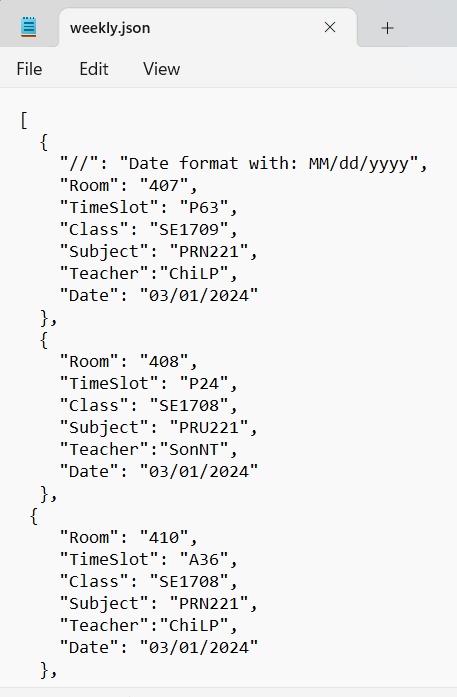
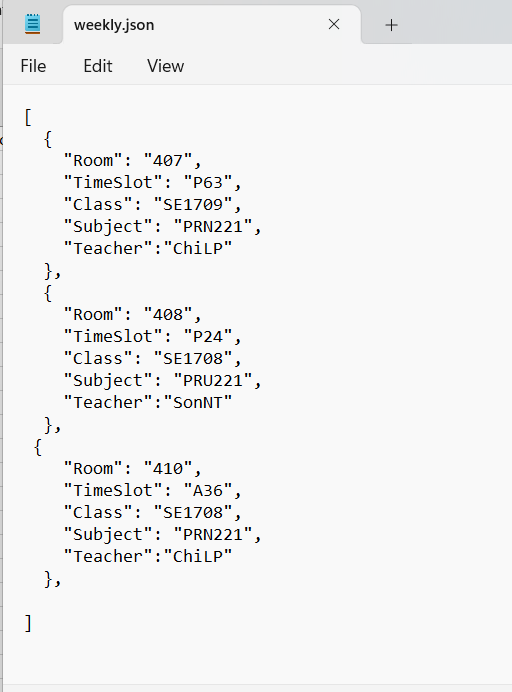
update pagin

diff --git a/Pages/Schedules/ImportFile.cshtml.cs b/Pages/Schedules/ImportFile.cshtml.cs
@@ -8,6 +8,7 @@ using System.IO;
 using OfficeOpenXml;
 using PRN211_Project.Models;
 using Microsoft.EntityFrameworkCore;
+using System.Net.Http;
 
 
 namespace PRN211_Project.Pages.Schedules
@@ -17,11 +18,13 @@ namespace PRN211_Project.Pages.Schedules
         private readonly IWebHostEnvironment _environment;
         private ReadDataFormFile _readDataFormFile = new ReadDataFormFile();
         private Prn211ProjectContext _context;
-
-        public ScheduleModel(IWebHostEnvironment environment, Prn211ProjectContext context)
+        private IHttpContextAccessor _httpContext;
+        private GetSession session = new GetSession();
+        public ScheduleModel(IWebHostEnvironment environment, Prn211ProjectContext context, IHttpContextAccessor httpContext)
         {
             _environment = environment;
             _context = context;
+            _httpContext = httpContext;
         }
 
         [BindProperty(SupportsGet = true)]
@@ -34,16 +37,22 @@ namespace PRN211_Project.Pages.Schedules
 
         public Dictionary<ScheduleData, int> Data { get; set; } = null;
 
-        public async void OnGet()
+        public async Task<IActionResult> OnGet()
         {
-            if (FileUploads != null && FileUploads.Length != 0)
-            {
+            //if (_httpContext.HttpContext!.Session.GetString("Account") != null)
+            //{
+            //    var account = session.GetObject(_httpContext.HttpContext!.Session, "Account");
+            //    if (!account.Role.ToLower().Equals("admin"))
+            //    {
+            //        return Redirect("/Index");
+            //    }
+            //    else
+            //    {
+            return Page();
+            //    }
+            //}
+            //return Redirect("/Index");
 
-            }
-            else
-            {
-                Data = new Dictionary<ScheduleData, int>();
-            }
         }
 
         public async Task<IActionResult> OnPostViewDataAsync(IFormFile FileUploads)
@@ -72,7 +81,7 @@ namespace PRN211_Project.Pages.Schedules
                 }
                 foreach (var item in ScheduleData)
                 {
-                    Data.Add(item, 0);
+                    Data.Add(item, 1);
                 }
             }
             else
@@ -92,6 +101,9 @@ namespace PRN211_Project.Pages.Schedules
                                               .Include(sh => sh.Course)
                                               .Include(sh => sh.Teachers)
                                               .ToList();
+
+            List<DateTime> days = new List<DateTime>();
+
             if (FileUploads != null && FileUploads.Length != 0)
             {
                 FilePath = Path.Combine(FileUploads.FileName);
@@ -116,8 +128,28 @@ namespace PRN211_Project.Pages.Schedules
 
                 foreach (var item in ScheduleData)
                 {
+                    char[] characters = item.TimeSlot.ToCharArray();
+                    string timeOfDay = (characters[0] == 'P') ? "PM" : "AM";
+
                     var r = _context.Rooms.FirstOrDefault(r => r.RoomsName.Equals(item.Room));
-                    
+                    var t = _context.Teachers.FirstOrDefault(t => t.TeachersCode.Equals(item.Teacher));
+                    var c = _context.ClassRooms.FirstOrDefault(c => c.ClassName.Equals(item.Class));
+                    var sub = _context.Courses.FirstOrDefault(c => c.CourseCode.Equals(item.Subject));
+                    var slot = _context.TimeSlots.Where(ts =>
+                                                           (timeOfDay == "AM" ? (ts.Description == "Slot 1" || ts.Description == "Slot 2") :
+                                                                         (ts.Description == "Slot 3" || ts.Description == "Slot 4")))
+                                                           .ToList();
+
+                    days = GetDateFromDayOfWeek(item.TimeSlot);
+
+                    foreach (var day in days)
+                    {
+                        foreach (var s in slot)
+                        {
+                            var shedules = sh.Where(sh => sh.LearnDate.Equals(day) && sh.TimeSlotId == s.TimeSlotId).ToList();
+
+                        }
+                    }
                 }
             }
             else
@@ -125,6 +157,50 @@ namespace PRN211_Project.Pages.Schedules
 
             }
             return Page();
+        }
+
+        public List<DateTime> GetDateFromDayOfWeek(string input)
+        {
+            char[] characters = input.ToCharArray();
+            int[] daysOfWeek = new int[characters.Length - 1];
+            for (int i = 1; i < characters.Length; i++)
+            {
+                daysOfWeek[i - 1] = int.Parse(characters[i].ToString());
+            }
+
+            DateTime startDate = new DateTime(DateTime.Now.Year, DateTime.Now.Month, 1);
+
+            List<DateTime> dates = new List<DateTime>();
+
+            while (startDate.Month == DateTime.Now.Month)
+            {
+                for (int i = 0; i < daysOfWeek.Length; i++)
+                {
+                    string day = GetDayOfWeekName(daysOfWeek[i]);
+
+                    if (startDate.DayOfWeek.ToString() == day)
+                    {
+                        dates.Add(startDate);
+                    }
+                }
+                startDate = startDate.AddDays(1);
+            }
+            return dates;
+        }
+
+        public string GetDayOfWeekName(int dayOfWeek)
+        {
+            switch (dayOfWeek)
+            {
+                case 2: return "Monday";
+                case 3: return "Tuesday";
+                case 4: return "Wednesday";
+                case 5: return "Thursday";
+                case 6: return "Friday";
+                case 7: return "Saturday";
+                case 8: return "Sunday";
+                default: return "";
+            }
         }
     }
 }

diff --git a/Pages/Shared/ViewComponents/PaginViewComponent.cs b/Pages/Shared/ViewComponents/PaginViewComponent.cs
@@ -5,7 +5,7 @@ namespace PRN211_Project.Pages.Shared.ViewComponents
 {
     public class PaginViewComponent : ViewComponent
     {
-        public IViewComponentResult Invoke(string pageUrl,int totalPage, int currentPage, int pageIndex, 
+        public IViewComponentResult Invoke(string pageUrl,int totalPage, int currentPage, int pageIndex, int displayRange,
                                             string filter, string viewDate, string search)
         {
             var model = new PaginationViewModel
@@ -14,6 +14,7 @@ namespace PRN211_Project.Pages.Shared.ViewComponents
                 TotalPage = totalPage,
                 CurrentPage = currentPage,
                 PageIndex = pageIndex,
+                DisplayRange = displayRange,
                 Filter = filter,
                 ViewDate = viewDate,
                 Search = search
@@ -28,6 +29,7 @@ namespace PRN211_Project.Pages.Shared.ViewComponents
         public int TotalPage { get; set; }
         public int CurrentPage { get; set; }
         public int PageIndex { get; set; }
+        public int DisplayRange { get; set; }
         public string Filter { get; set; }
         public string ViewDate { get; set; }
         public string Search { get; set; }

diff --git a/Pages/Accounts/Create.cshtml.cs b/Pages/Accounts/Create.cshtml.cs
@@ -61,7 +61,16 @@ namespace PRN211_Project.Pages.Accounts
             {
                 _context.Accounts.Add(Account);
                 await _context.SaveChangesAsync();
-
+                if (Account.Role.ToLower().Equals("teacher"))
+                {
+                    Teacher teacher = new Teacher()
+                    {
+                        Account = Account,
+                        AccountId = Account.AccountId,
+                    };
+                    _context.Teachers.Add(teacher);
+                    await _context.SaveChangesAsync();
+                }
                 return RedirectToPage("./Index");
             }
         }

diff --git a/Services/ReadDataFormFile.cs b/Services/ReadDataFormFile.cs
@@ -82,7 +82,6 @@ namespace PRN211_Project.Services
                                 Class = worksheet.Cells[row, 4].Value?.ToString(),
                                 Subject = worksheet.Cells[row, 5].Value?.ToString(),
                                 Teacher = worksheet.Cells[row, 6].Value?.ToString(),
-                                Date = Convert.ToDateTime(worksheet.Cells[row, 7].Value?.ToString()),
                             });
                         }
                     }

diff --git a/Program.cs b/Program.cs
@@ -8,7 +8,6 @@ var builder = WebApplication.CreateBuilder(args);
 
 // Add services to the container.
 builder.Services.AddRazorPages();
-builder.Services.AddRazorPages();
 builder.Services.AddDbContext<Prn211ProjectContext>(
     opt => opt.UseSqlServer(builder.Configuration.GetConnectionString("MyDB"))
     );

diff --git a/Entities/ScheduleData.cs b/Entities/ScheduleData.cs
@@ -7,7 +7,6 @@
         public string Class { get; set; }
         public string Subject { get; set; }
         public string Teacher { get; set; }
-        public DateTime Date { get; set; }
 
     }
 }
